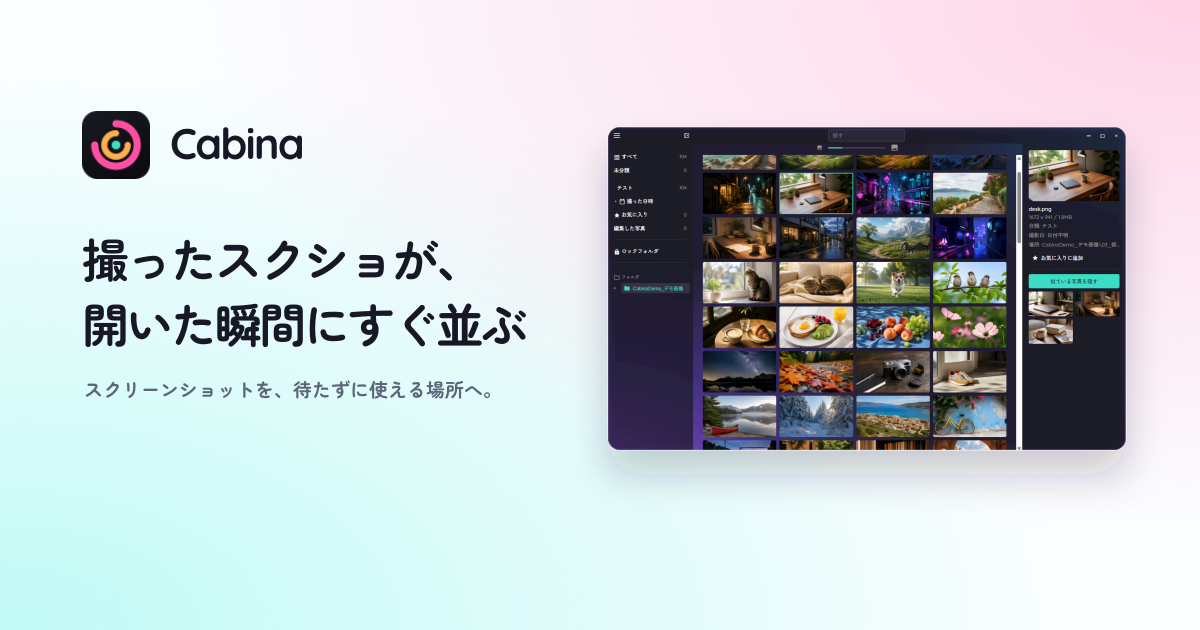
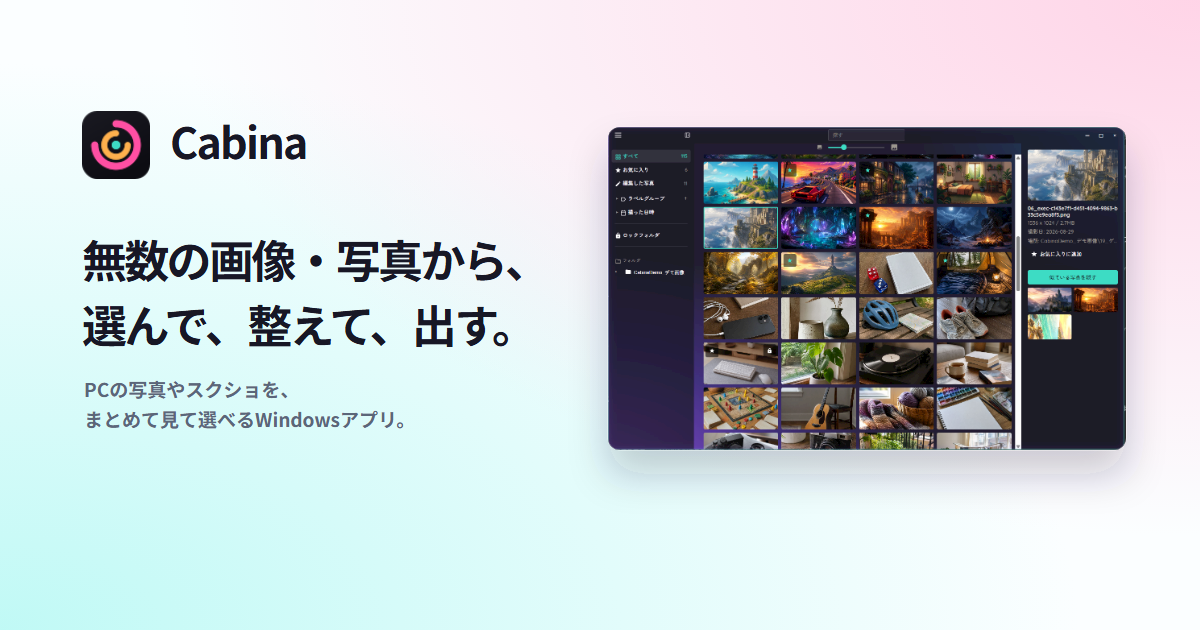
OGPカードを現行訴求に更新

diff --git a/index.html b/index.html
@@ -4,22 +4,22 @@
   <meta charset="UTF-8" />
   <meta name="viewport" content="width=device-width, initial-scale=1.0" />
   <link rel="icon" type="image/png" sizes="64x64" href="assets/cabina-icon-64.png" />
-  <meta name="description" content="Cabina — スクリーンショットを、待たずに使える場所へ。" />
+  <meta name="description" content="PCの写真やスクショを、まとめて見て選べるWindowsアプリ。" />
   <link rel="canonical" href="https://cabinatrova.com/" />
   <meta property="og:site_name" content="Cabina" />
   <meta property="og:type" content="website" />
-  <meta property="og:title" content="Cabina | スクリーンショットを、待たずに使える場所へ。" />
-  <meta property="og:description" content="フォルダを追加するだけで、スクリーンショットや写真を手軽に素早く探せるWindowsアプリ。" />
+  <meta property="og:title" content="Cabina | 写真・スクショを、選んで、整えて、出す。" />
+  <meta property="og:description" content="PCの写真やスクショを、まとめて見て選べるWindowsアプリ。" />
   <meta property="og:url" content="https://cabinatrova.com/" />
-  <meta property="og:image" content="https://cabinatrova.com/assets/ogp-card.png" />
+  <meta property="og:image" content="https://cabinatrova.com/assets/ogp-card.png?v=20260924" />
   <meta property="og:image:width" content="1200" />
   <meta property="og:image:height" content="630" />
   <meta property="og:locale" content="ja_JP" />
   <meta name="twitter:card" content="summary_large_image" />
-  <meta name="twitter:title" content="Cabina | スクリーンショットを、待たずに使える場所へ。" />
-  <meta name="twitter:description" content="フォルダを追加するだけで、スクリーンショットや写真を手軽に素早く探せるWindowsアプリ。" />
-  <meta name="twitter:image" content="https://cabinatrova.com/assets/ogp-card.png" />
-  <title>Cabina | スクリーンショットを、待たずに使える場所へ。</title>
+  <meta name="twitter:title" content="Cabina | 写真・スクショを、選んで、整えて、出す。" />
+  <meta name="twitter:description" content="PCの写真やスクショを、まとめて見て選べるWindowsアプリ。" />
+  <meta name="twitter:image" content="https://cabinatrova.com/assets/ogp-card.png?v=20260924" />
+  <title>Cabina | 写真・スクショを、選んで、整えて、出す。</title>
   <link rel="preconnect" href="https://fonts.googleapis.com" />
   <link rel="preconnect" href="https://fonts.gstatic.com" crossorigin />
   <link href="https://fonts.googleapis.com/css2?family=Quicksand:wght@500;600;700&family=Zen+Maru+Gothic:wght@500;600;700&display=swap" rel="stylesheet" />
